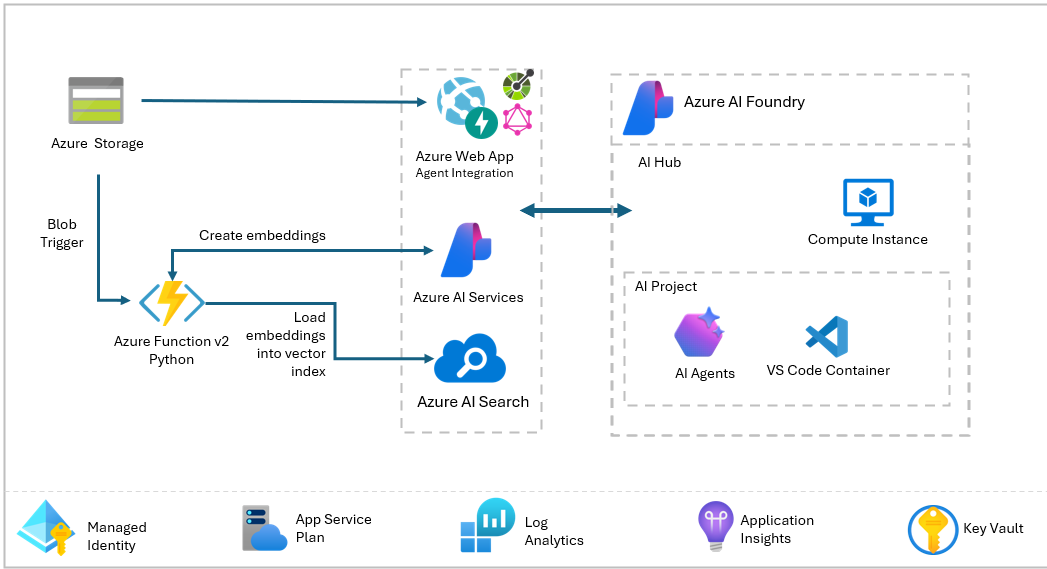
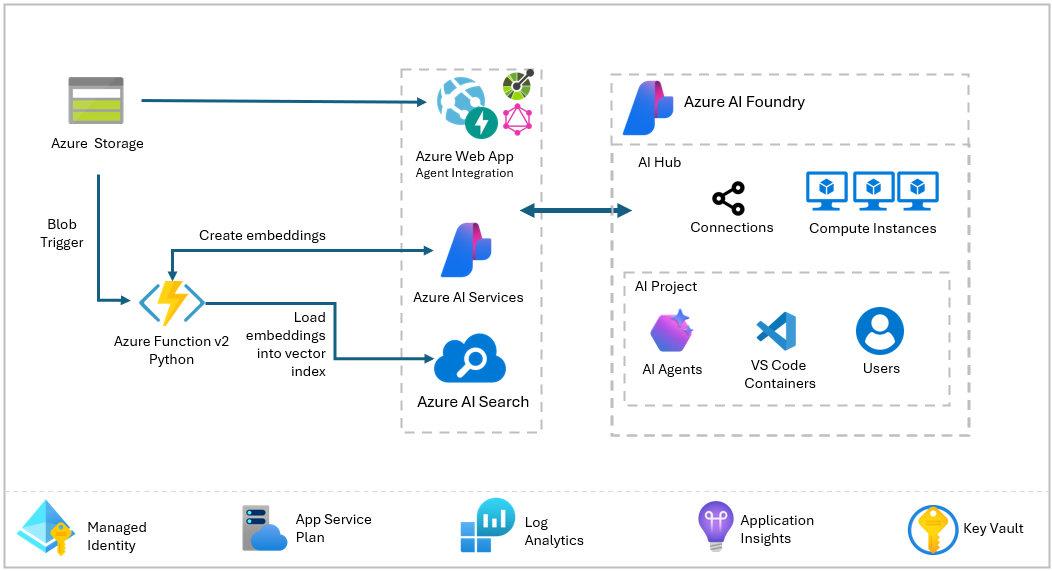
deployment for multiple projects

diff --git a/docs/deployment.md b/docs/deployment.md
@@ -21,7 +21,7 @@ Before diving into deployment, make sure you have the following prerequisites in
 
 ---
 
-### **1. Clone the Repository**
+### 1. Clone the Repository
 Clone the repository to your local machine and navigate into the project directory:
 
 ```bash
@@ -31,14 +31,58 @@ cd azure-ai-foundry-agentic-workshop
 ```
 
 
-### 2. Deploy the Solution  
+### 2. Configure Azure AI Projects and Assign Users
+
+This workshop enables the deployment of multiple Azure AI Projects and can automatically assign participants the `AI Developer` role for each project.
+
+#### Steps:
+
+1. Duplicate the `project_resource_config_sample.json` file and rename it to `project_resource_config.json`.
+2. Update the file with the following:
+   - Specify the desired project names.
+   - Set the number of compute instances to deploy for each project. *(Note: Compute instances are technically created within the AI Hub, but they will be named to align with the project for convenience.)*
+   - *(Optional)* Add a `users` array for each project to assign the `AI Developer` role. If the `users` property is omitted, no users will be assigned roles for that project - but can be assigned later.
+
+#### Example `project_resource_config.json`:
+
+```json
+[
+  {
+    "projectName": "team1",
+    "devComputeInstances":1,
+    "users": [
+    {
+      "user": "johndoe@example.com",
+      "objectId": "9e3c74f9-0131-4ab7-a18e-8d0a833b8f5d"
+    }
+  ]
+  },
+  {
+    "projectName": "team2",
+    "devComputeInstances":1,
+    "users": [
+    {
+      "user": "johndoe@example.com",
+      "objectId": "9e3c74f9-0131-4ab7-a18e-8d0a833b8f5d"
+    },
+    {
+      "user": "johnsmith@example.com",
+      "objectId": "b0c1f2d4-ff62-4a49-b158-6e4b99b464a9"
+    }
+  ]
+  }
+]
+```
+
+### 3. Deploy the Solution  
+
 
 #### 🔹 PowerShell (Windows)
 
-Run the following PowerShell command to deploy the solution. Replace the placeholders with your actual subscription name and Azure region. The `-ResourceGroupName` flag is optional for deploying to an exising Azure Resource Group:
+Run the following PowerShell command to deploy the solution. Replace the placeholders with your actual subscription name and Azure region. The `-ResourceGroupName` flag is optional for deploying to an exising Azure Resource Group. 
 
 ```powershell
-.\deploy.ps1 -Subscription '[Subscription Name]' -Location 'eastus2' -DevComputeInstances 1 -ResourceGroupName '[Name of existing resource group (optional)]'
+.\deploy.ps1 -Subscription '[Subscription Name]' -Location 'eastus2' -ResourceGroupName '[Name of existing resource group (optional)]' 
 ```
 
 #### 🔹 Bash (Linux)
@@ -61,21 +105,22 @@ az login --identity
 az account set --subscription '[Subscription Name]'
 
 # Deploy the solution to the secified Location, with DevComputeInstances
-./deploy.sh 'eastus2' 1 '[Existing Resource Group Name (optional)]'
+./deploy.sh 'eastus2' '[Existing Resource Group Name (optional)]'
 ```
 
 ✅ This script provisions all required Azure resources based on the specified parameters. The deployment may take up to **20 minutes** to complete.
 
 
 
-### 3. 📥 Upload Structured Data for Agent Integration
+### 4. 📥 Upload Structured Data for Agent Integration
 
-After completing the deployment, you will need to update the sample dataset for the agent integration.
+Once the deployment is complete, you'll need to update the sample dataset for agent integration. Ensure the user has the `Storage Blob Data Contributor` role to upload the sample data to the Azure Storage Account.
 
-1. Upload the **parquet** data file to the `data` container in the Azure Storage Account.
-    1.1 The demonstration utilizes synthetic data related to data center energy usage.  
-[📄usage.parquet](../data/usage.parquet)
+#### Steps:
 
+1. Upload the **parquet** data file to the `data` container in your Azure Storage Account.
+    - This demonstration uses synthetic data related to data center energy usage.  
+    [📄usage.parquet](../data/usage.parquet)
 
 ![Load Data](../media/storage-account-data.png)
 

diff --git a/docs/vector-search.md b/docs/vector-search.md
@@ -55,7 +55,7 @@ This project includes the Azure Durable Function [DocumentProcessingFunction](sr
 
 To trigger indexing:
 
-1. Upload PDF documents to the `load` container in the Azure Storage Account.
+1. Upload PDF documents to the `load` container in the Azure Storage Account. Ensure the user has the `Storage Blob Data Contributor` role to upload data to the Azure Storage Account.
     1.1 The demonstration uses data from the **2024 United States Data Center Energy Usage Report**.  
 [📄lbnl-2024-united-states-data-center-energy-usage-report.pdf](../data/lbnl-2024-united-states-data-center-energy-usage-report.pdf)
 2. The Azure Function will automatically:
